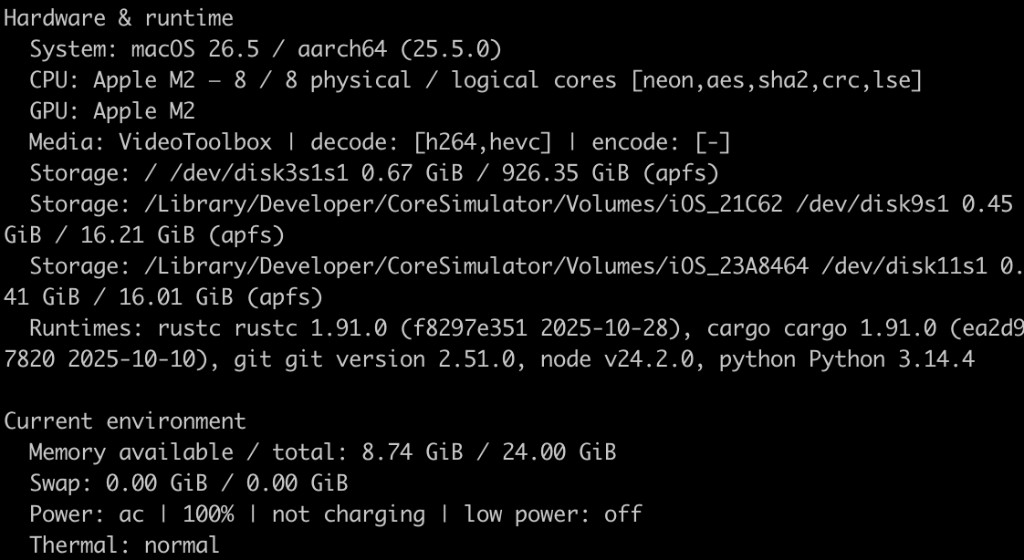
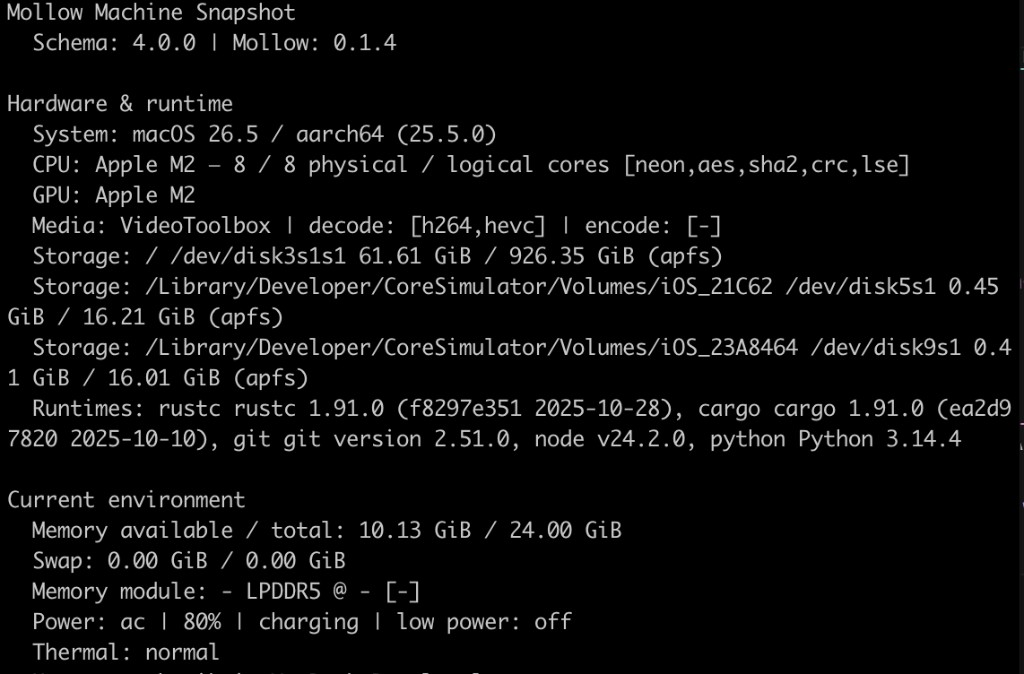
docs: refresh macOS inspect screenshot and sample output caption.
Replace inspect-macos.png with English terminal output and drop the version
number from the README sample output description.

Changed region(s): [[0.0, 0.0, 1.0, 0.6679], [0.0, 0.7286, 0.625, 1.0]]

diff --git a/README.md b/README.md
@@ -90,7 +90,7 @@ Details: [docs/hardware-enrichment.md](docs/hardware-enrichment.md) · [ADR-0002
 
 ## Sample output
 
-Terminal output from `mollow inspect --format terminal --lang zh-CN` (v0.1.4):
+Terminal output from `mollow inspect --format terminal --lang english`:
 
 <table>
   <tr>